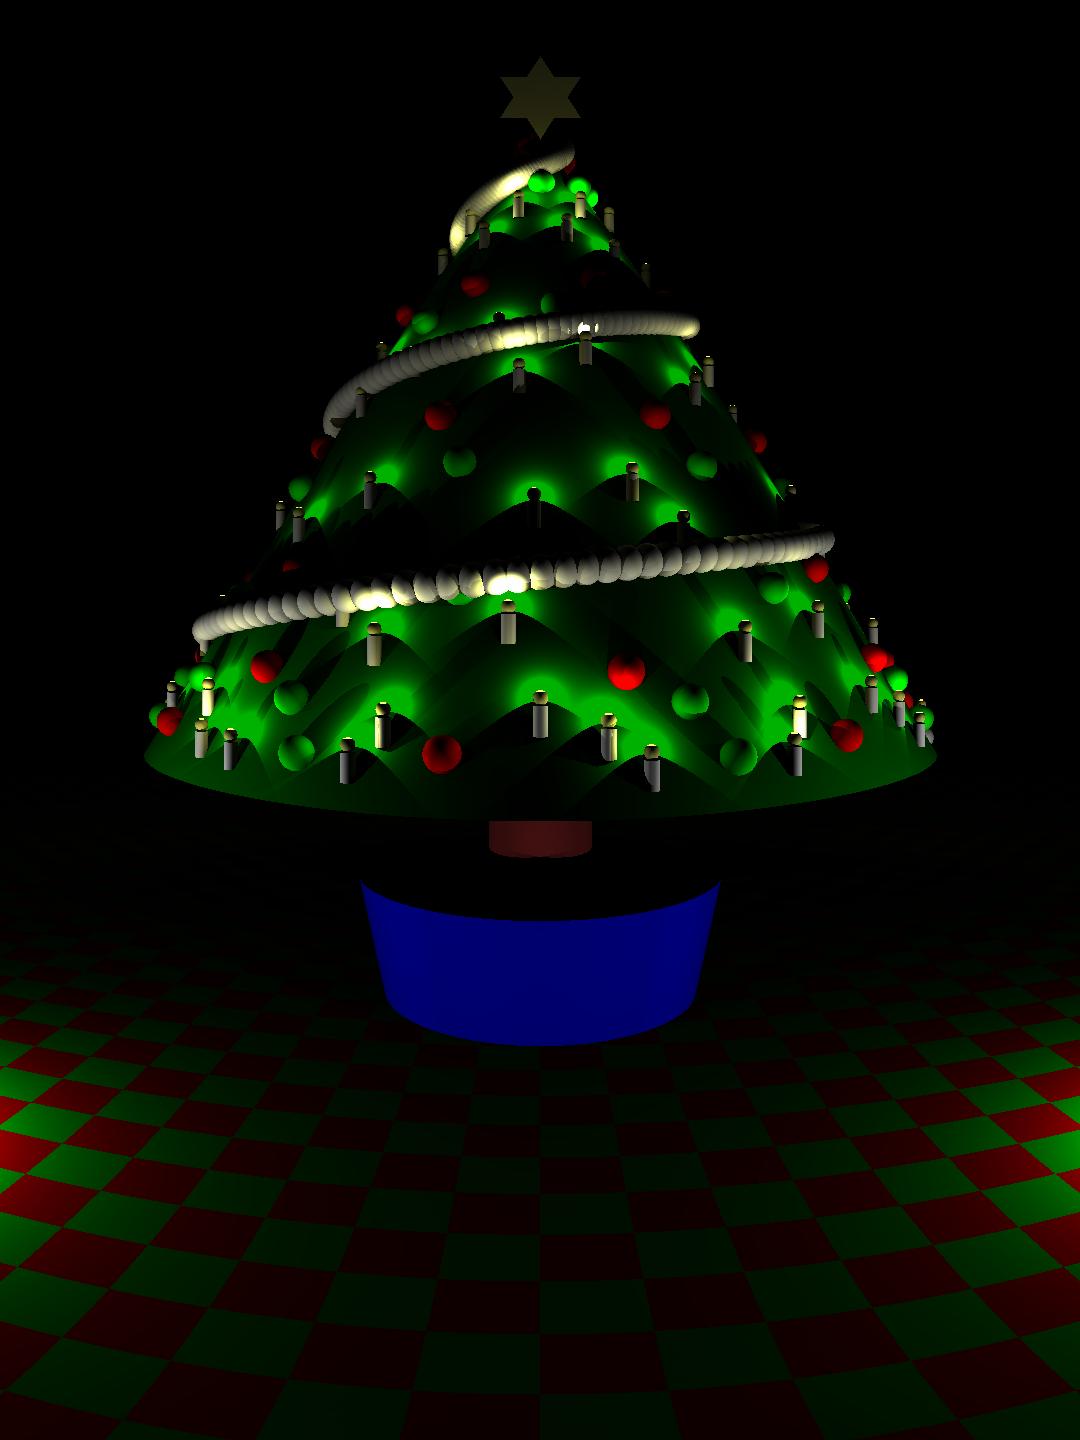
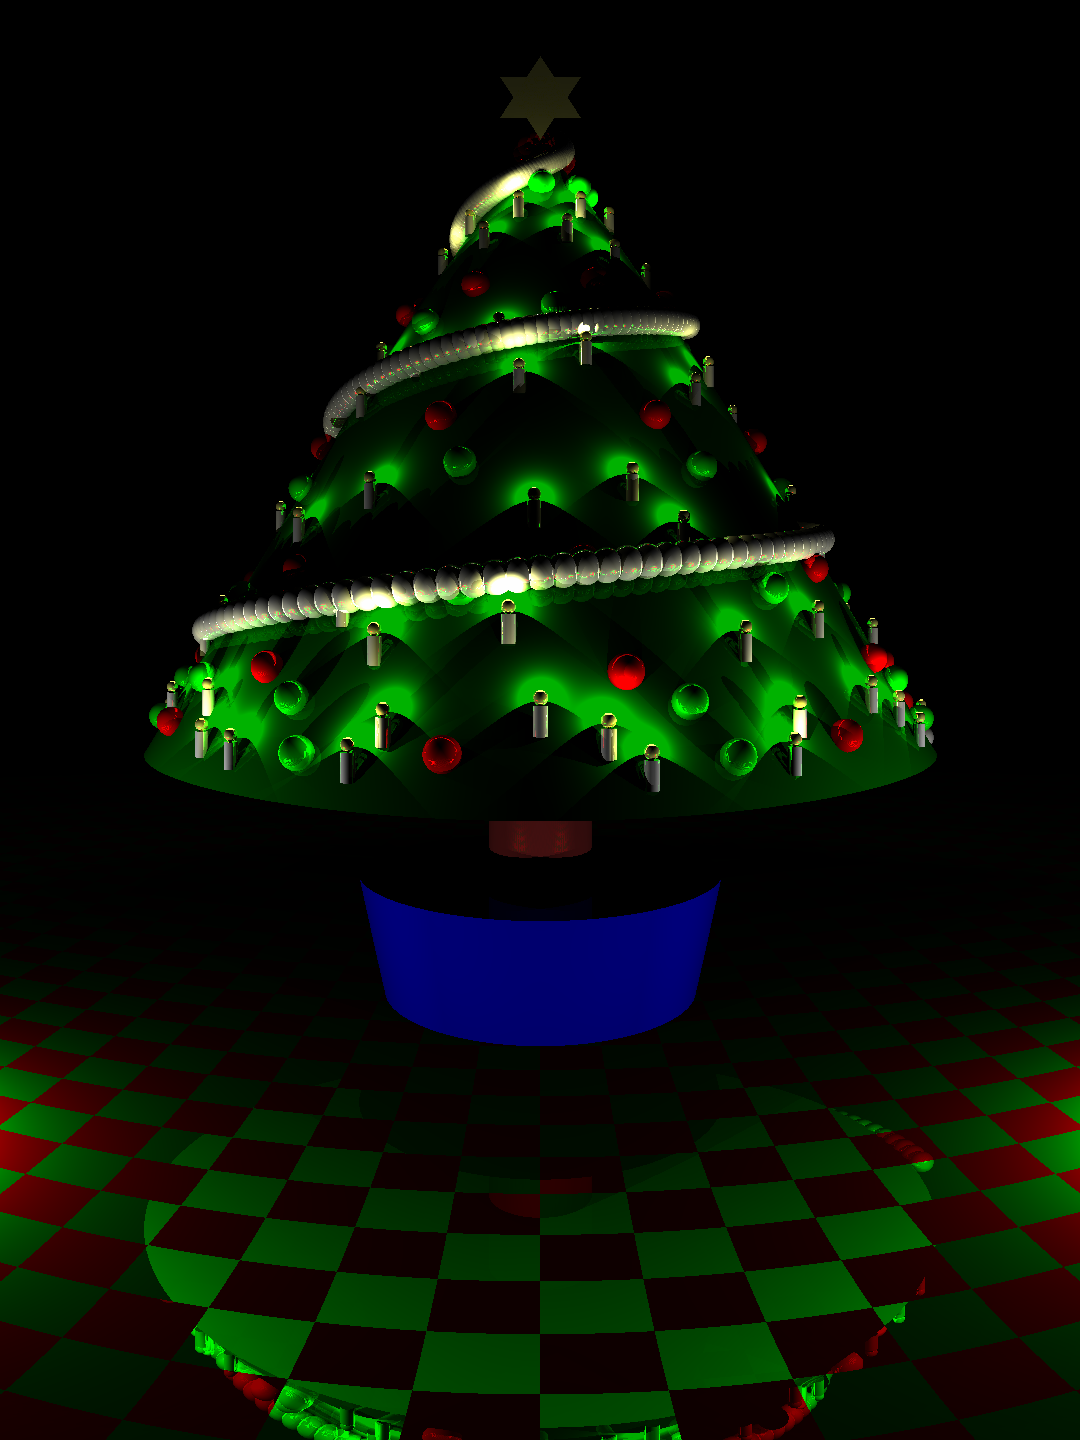
Fixed reflections to work at very small scales.

diff --git a/src/main/java/org/glencross/raytrace/RayTracer.java b/src/main/java/org/glencross/raytrace/RayTracer.java
@@ -58,8 +58,8 @@ public class RayTracer {
 
     private Colour getColourOfLine(Shape fromShape, Line line, int depthRemaining) {
         Optional<LineShapeIntersection> optionalIntersection = scene.getShapes().stream()
-                .filter(shape -> shape != fromShape)
                 .flatMap(shape -> shape.intersections(line).stream())
+                .filter(i -> i.getShape() != fromShape)
                 .filter(i -> i.getDistance() > 0)
                 .sorted(Comparator.comparing(LineShapeIntersection::getDistance))
                 .findFirst();
@@ -83,7 +83,7 @@ public class RayTracer {
             Vector surfaceNormal = intersection.getSurfaceNormal();
             Vector lineDirection = intersection.getLine().getDirection();
             Vector reflectionDirection = getReflectionDirection(surfaceNormal, lineDirection);
-            Line reflectionLine = new Line(intersection.getLocation().plus(reflectionDirection.mult(0.0001)), reflectionDirection);
+            Line reflectionLine = new Line(intersection.getLocation(), reflectionDirection);
             reflectedIllumination = getColourOfLine(intersection.getShape(), reflectionLine, depthRemaining - 1)
                     .times(reflectivity);
         }
@@ -106,11 +106,12 @@ public class RayTracer {
             if (alignment > 0) {
                 double d = distance.scale();
                 Vector direction = distance.toUnit();
-                Line lineToLightSource = new Line(intersection.getLocation().plus(direction.mult(0.0001)), direction);
+                Line lineToLightSource = new Line(intersection.getLocation(), direction);
 
                 // Actually inverse shadowing
                 double shadowing = scene.getShapes().stream()
                         .flatMap(shape -> shape.intersections(lineToLightSource).stream())
+                        .filter(i -> i.getShape() != intersection.getShape())
                         .filter(l -> l.getDistance() > 0 && l.getDistance() < d)
                         .mapToDouble(l -> 0d /* opacity */)
                         .reduce(1.0, (s, o) -> s*o);

diff --git a/src/main/java/org/glencross/raytrace/CompositeShape.java b/src/main/java/org/glencross/raytrace/CompositeShape.java
@@ -126,8 +126,6 @@ public class CompositeShape implements Shape {
         collectShapesByBoundingBox(line, shapes);
         return shapes.stream()
                 .flatMap(s -> s.intersections(line).stream())
-                .map(i -> new LineShapeIntersection(line, this,  i.getDistance(), i.getLocation(),
-                        i.getSurfaceNormal(), i.getSurfaceProperties()))
                 .collect(Collectors.toList());
     }
 
